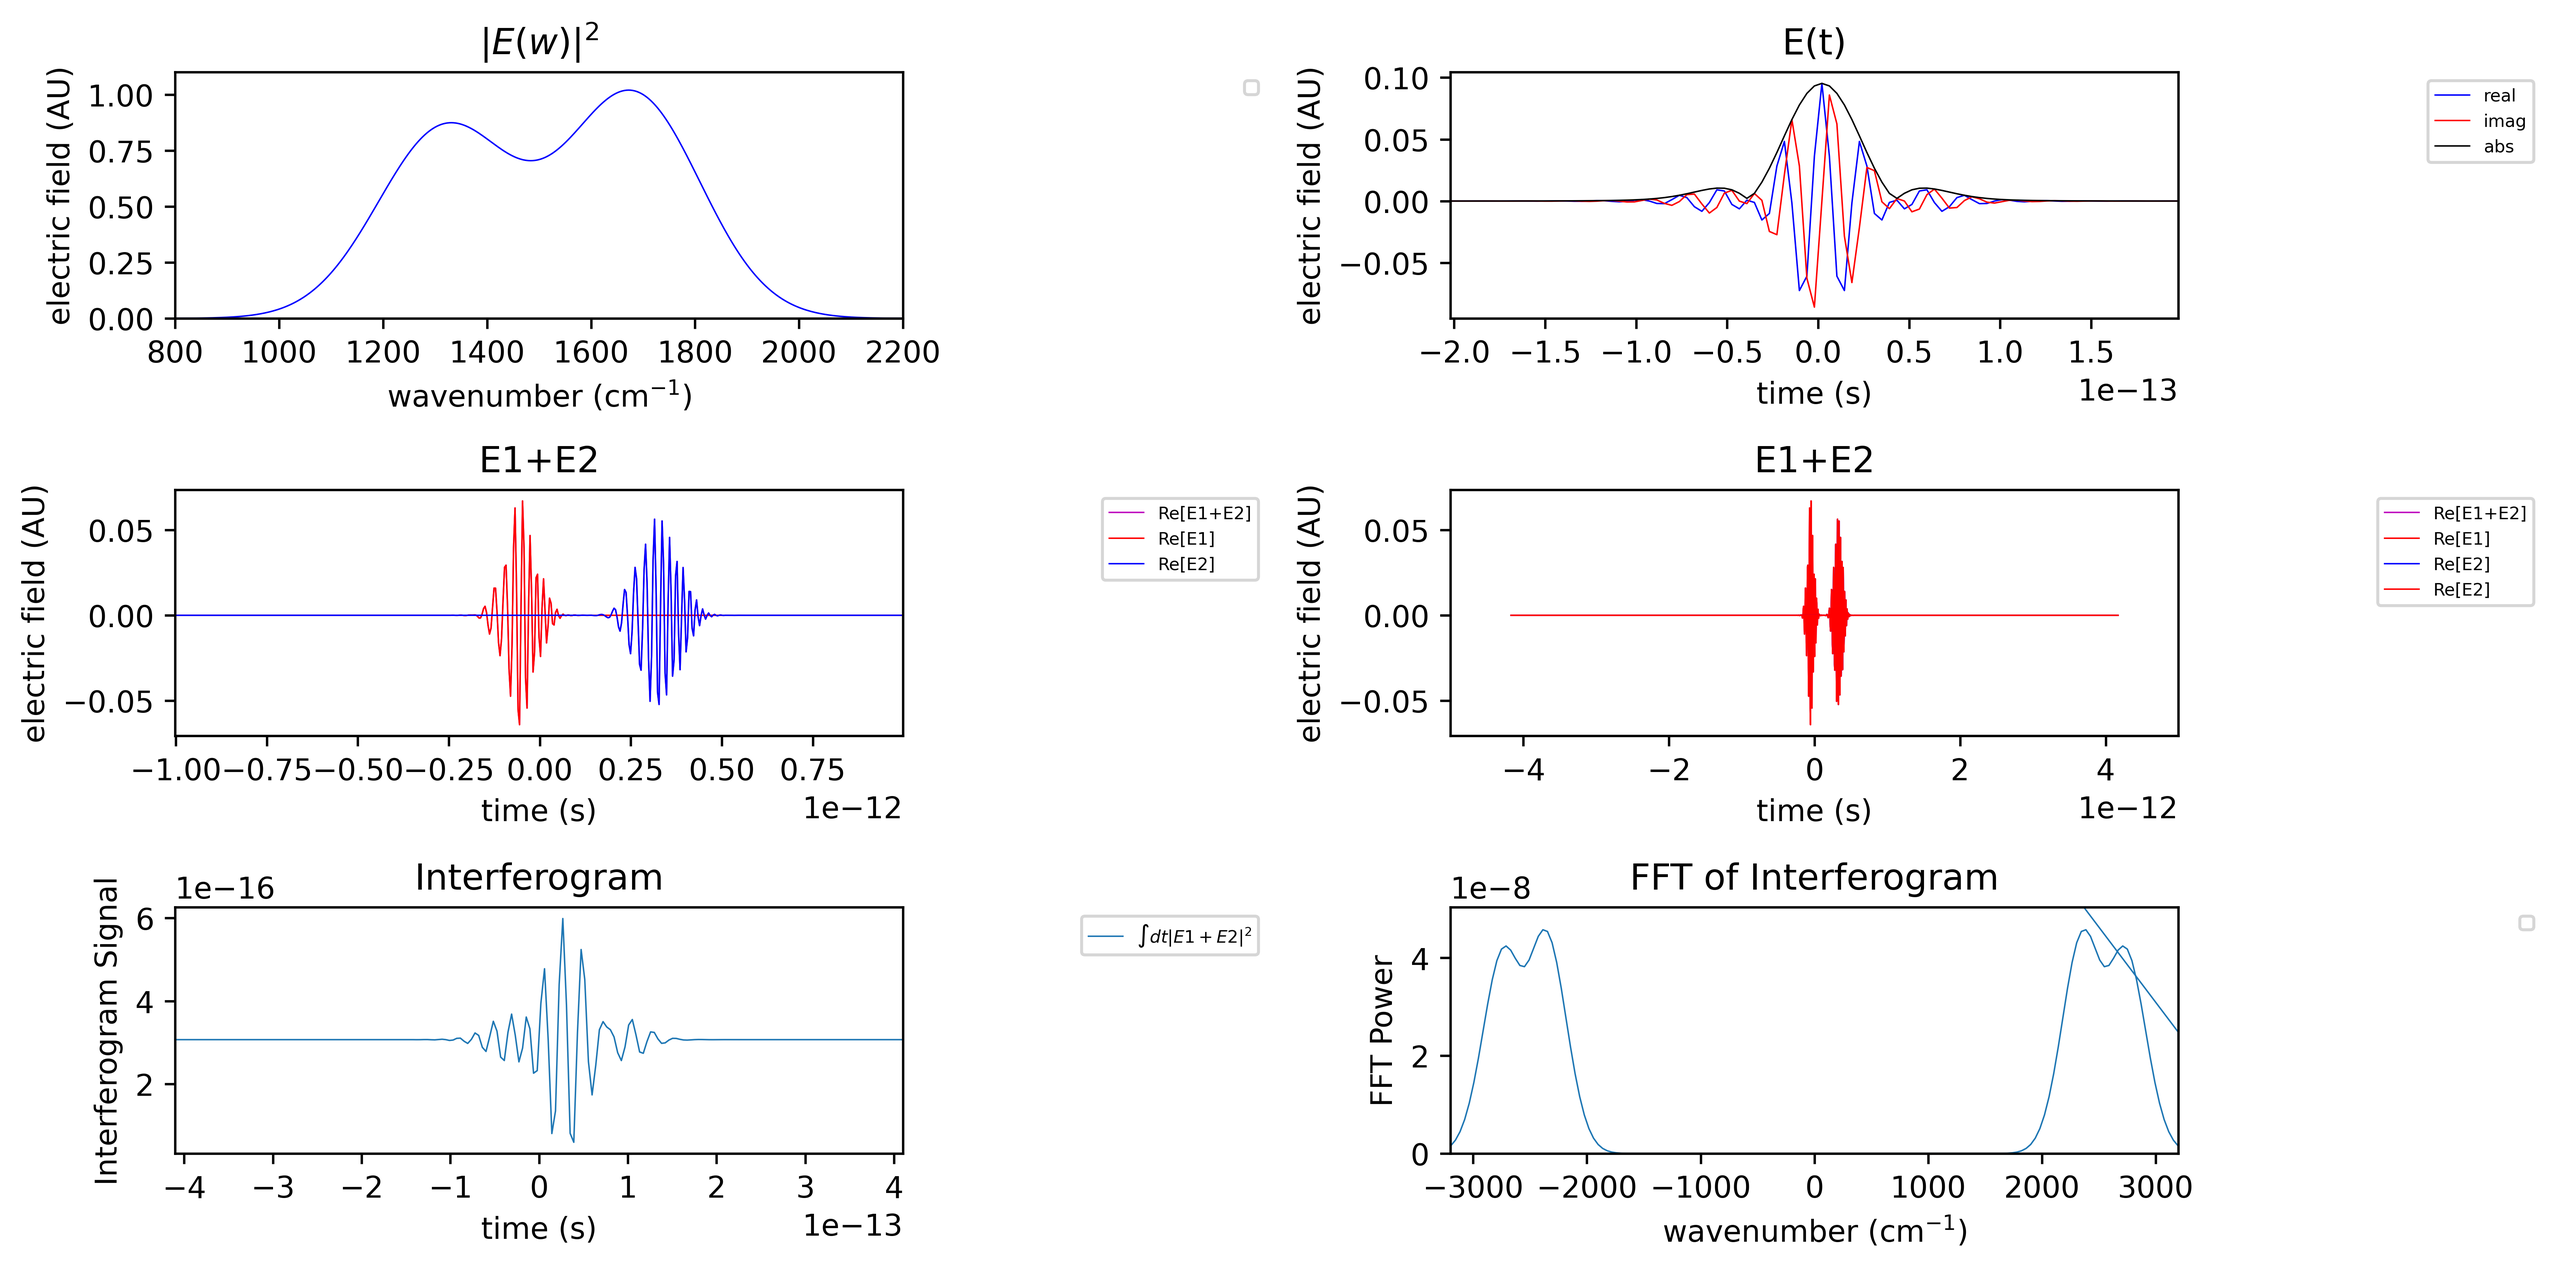
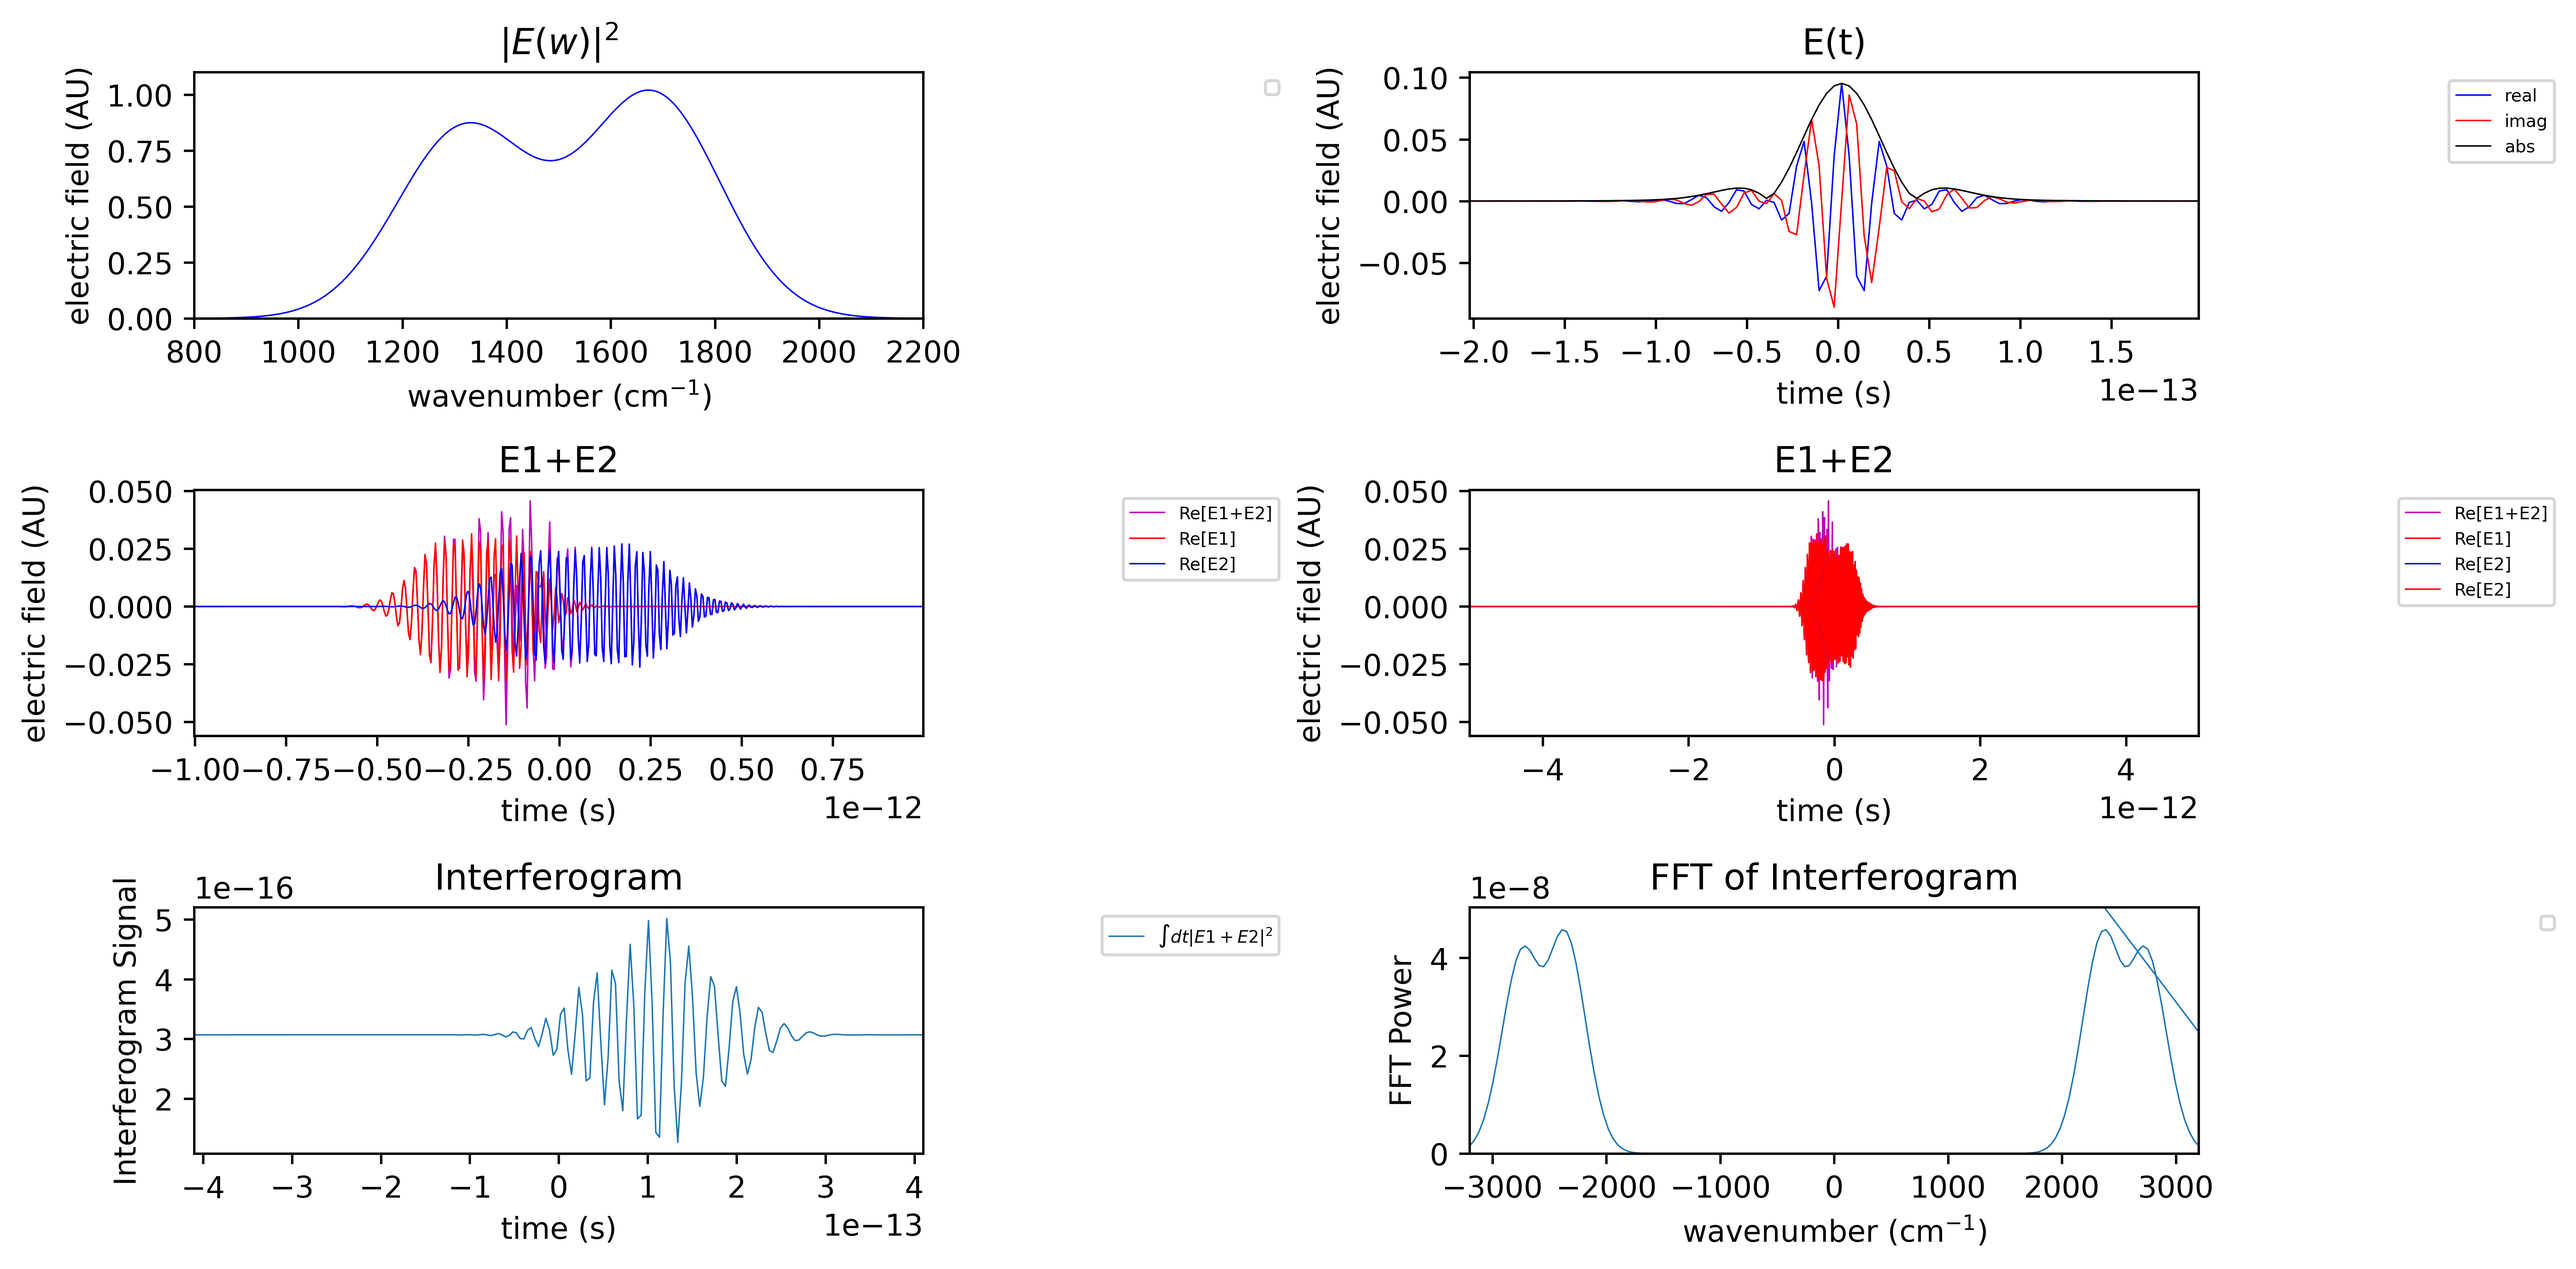
corrected FT expression

diff --git a/interf.py b/interf.py
@@ -22,7 +22,7 @@ def main(args):
     ##Define BBIR spectrum
     c = 29979245800.0 #speed of light in cm/s
     _to_ps = 1.0e12 # convert from s to ps
-    w = make_w_axis( 0.0, 4.0, 8096.0 )#define frequency axis
+    w = make_w_axis( 0.0, 1.0, 8096.0 )#define frequency axis
     mu1, mu2 = 1320.0, 1680.0 #peak centers for the spectrum
     sig1, sig2 = 130.0, 130.0 #peak widths
     sig_w = 0.85*gaussian(w,mu1,sig1) + 1.0*gaussian(w,mu2,sig2) #define the spectrum
